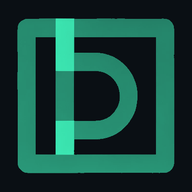
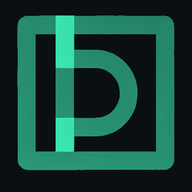
fix: UX improvements — login Enter key, fast logout, layout fixes
- Fix SideSwap link on Mac: detect Apple platforms (Mac/iOS) not just iOS
- Make logout instant: navigate immediately, API call fire-and-forget
- Add Enter key support on login form (username and password fields)
- Change mockup trio to 2+1 grid layout (no horizontal scroll on mobile)
- Reduce card padding on screens ≤380px for better date field spacing
- Shift icon content up 8px to compensate for iOS icon mask centering
- Bump service worker cache to v14

diff --git a/script.js b/script.js
@@ -96,8 +96,8 @@ document.getElementById("close-wallet-guide")?.addEventListener("click", () => {
 
 // SideSwap link — opens correct store based on device
 document.getElementById("sideswap-link")?.addEventListener("click", () => {
-  const isIOS = /iPad|iPhone|iPod/.test(navigator.userAgent) || (navigator.platform === "MacIntel" && navigator.maxTouchPoints > 1);
-  const url = isIOS
+  const isApple = /iPad|iPhone|iPod/.test(navigator.userAgent) || /Mac/.test(navigator.platform);
+  const url = isApple
     ? "https://apps.apple.com/br/app/sideswap/id1556476417"
     : "https://play.google.com/store/apps/details?id=io.sideswap";
   window.open(url, "_blank", "noopener,noreferrer");
@@ -122,7 +122,7 @@ if (isAppInstalled()) {
 // LOGIN
 // =========================================
 
-document.getElementById("btn-login")?.addEventListener("click", async () => {
+async function handleLogin() {
   const usuario = document.getElementById("login-usuario").value.trim();
   const senha = document.getElementById("login-senha").value;
 
@@ -165,7 +165,16 @@ document.getElementById("btn-login")?.addEventListener("click", async () => {
     btn.disabled = false;
     btn.innerText = "Entrar";
   }
-});
+}
+
+document.getElementById("btn-login")?.addEventListener("click", handleLogin);
+
+// Enter key triggers login
+for (const id of ["login-usuario", "login-senha"]) {
+  document.getElementById(id)?.addEventListener("keydown", (e) => {
+    if (e.key === "Enter") handleLogin();
+  });
+}
 
 // =========================================
 // REGISTER
@@ -769,20 +778,18 @@ document.getElementById("menu-overlay")?.addEventListener("click", (e) => {
 });
 
 // Logout
-document.getElementById("menu-logout")?.addEventListener("click", async () => {
+document.getElementById("menu-logout")?.addEventListener("click", () => {
   closeMenu();
-  try {
-    const refreshToken = getRefreshToken();
-    await apiFetch("/api/auth/refresh", {
-      method: "POST",
-      body: JSON.stringify({ action: "logout", refreshToken })
-    });
-  } catch { /* ignore */ }
+  const refreshToken = getRefreshToken();
   clearAuth();
-  // Clear password field on logout so it doesn't persist
   const loginSenha = document.getElementById("login-senha");
   if (loginSenha) loginSenha.value = "";
   navigate("#login");
+  // Fire-and-forget API call after navigating
+  apiFetch("/api/auth/refresh", {
+    method: "POST",
+    body: JSON.stringify({ action: "logout", refreshToken })
+  }).catch(() => {});
 });
 
 // FAQ menu item

diff --git a/style.css b/style.css
@@ -961,9 +961,15 @@ textarea:focus {
 
 .guide-mockup-trio {
   display: grid;
-  grid-template-columns: repeat(3, 1fr);
+  grid-template-columns: repeat(2, 1fr);
   gap: 12px;
   margin: 14px 0;
+}
+
+.guide-mockup-trio .guide-mini-mockup:nth-child(3) {
+  grid-column: 1 / -1;
+  max-width: 60%;
+  justify-self: center;
 }
 
 .guide-mini-mockup {
@@ -1101,9 +1107,15 @@ textarea:focus {
   color: #5a6d82;
 }
 
-@media (max-width: 360px) {
+@media (max-width: 380px) {
+  .card {
+    padding: 20px;
+  }
   .guide-mockup-trio {
     grid-template-columns: 1fr;
+  }
+  .guide-mockup-trio .guide-mini-mockup:nth-child(3) {
+    max-width: 100%;
   }
 }
 

diff --git a/service-worker.js b/service-worker.js
@@ -1,4 +1,4 @@
-const CACHE_NAME = "depix-v13";
+const CACHE_NAME = "depix-v14";
 
 const STATIC_FILES = [
   "./",
